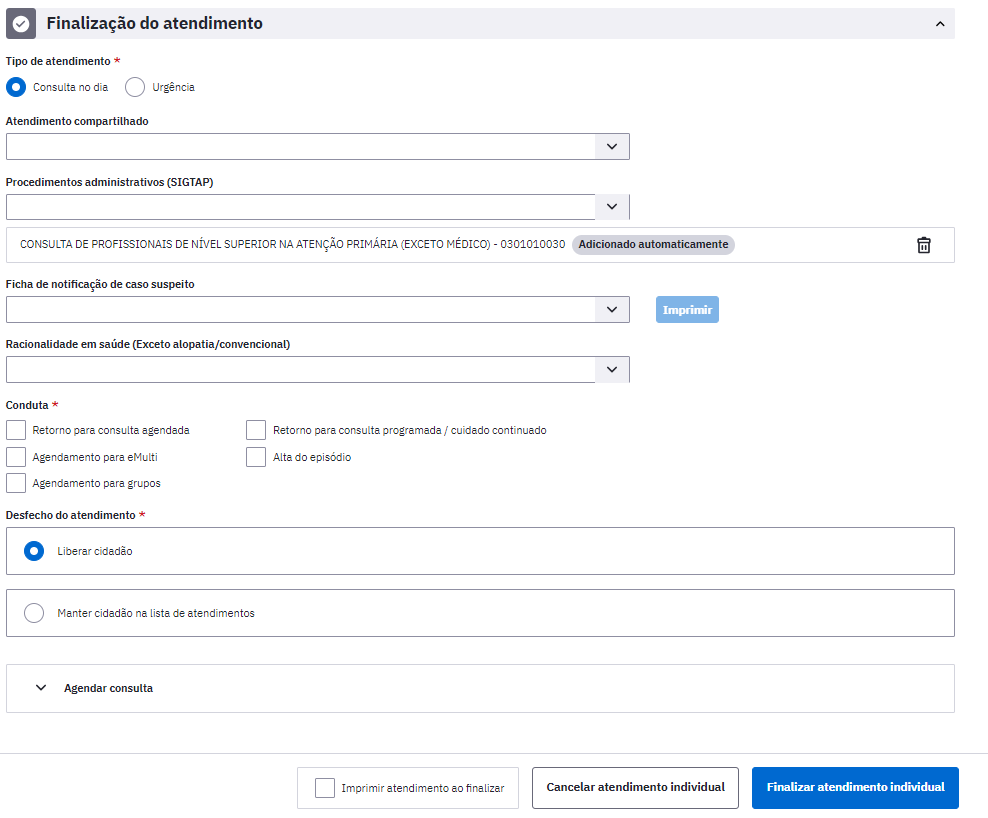
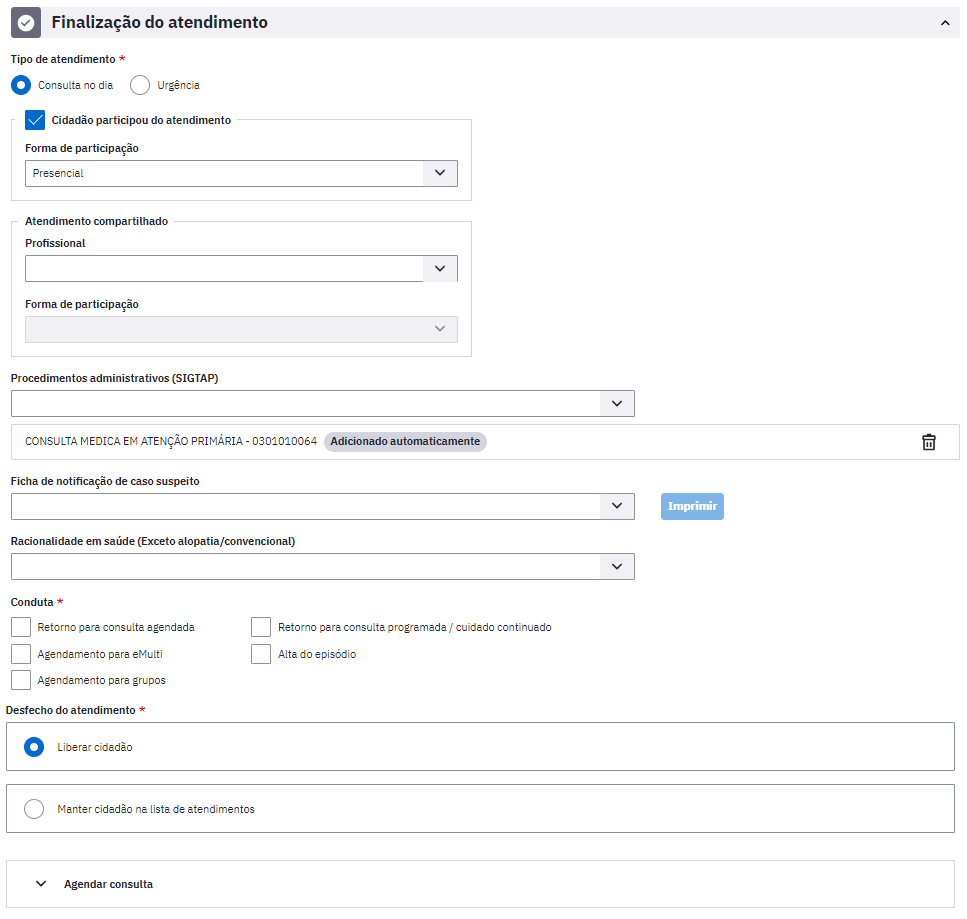
finalização

diff --git a/docs/Últimas releases/Versão 5.3.md b/docs/Últimas releases/Versão 5.3.md
@@ -110,6 +110,8 @@ Inclusão do **bairro** nos filtros avançados:
 ![](./media/cadastro_imovel.png)
 
 
+* O profissional também poderá gerar o relatório e exportar 
+
 **Acompanhamento das condições de saúde**
 
 * Inclusão da exportação do relatório de busca em formato CSV, permitindo a manipulação dos dados.
@@ -214,7 +216,13 @@ Dessa forma, o cidadão permanece na fila para um atendimento com a categoria pr
 
 **Participação do cidadão e atendimento compartilhado**
 
+Agora é possivel sinalizar em "finalização do atendimento" a forma de participação do cidadão, podendo ser: Presencial, Chamada de vídeo, Chamada de vox, E-mail, Mensagem e Outros.
 
+![](media/pec_image1092.png)
+
+Também em "finalização do atendimento" foi inclusa a opção de sinalização do profissional e forma de participação no que se refere ao atendimento compartilhado.
+
+![](media/pec_image1093.png)
 
 **Acompanhamento de vulnerabilidade no prontuário**
 
